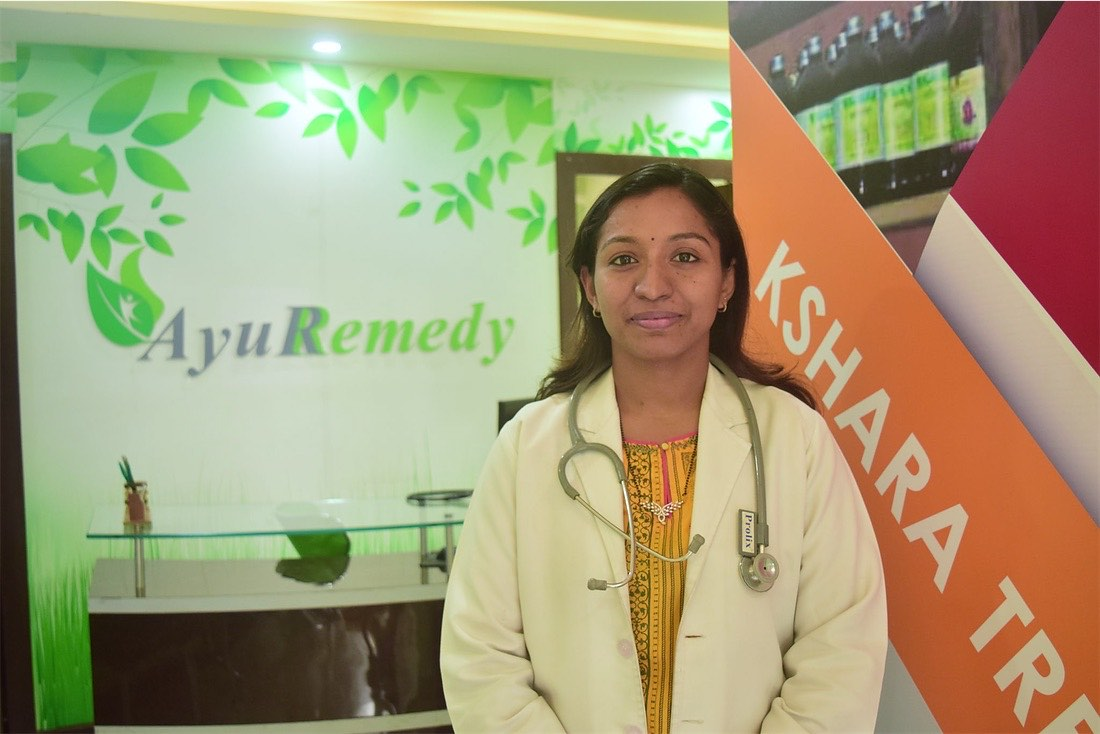
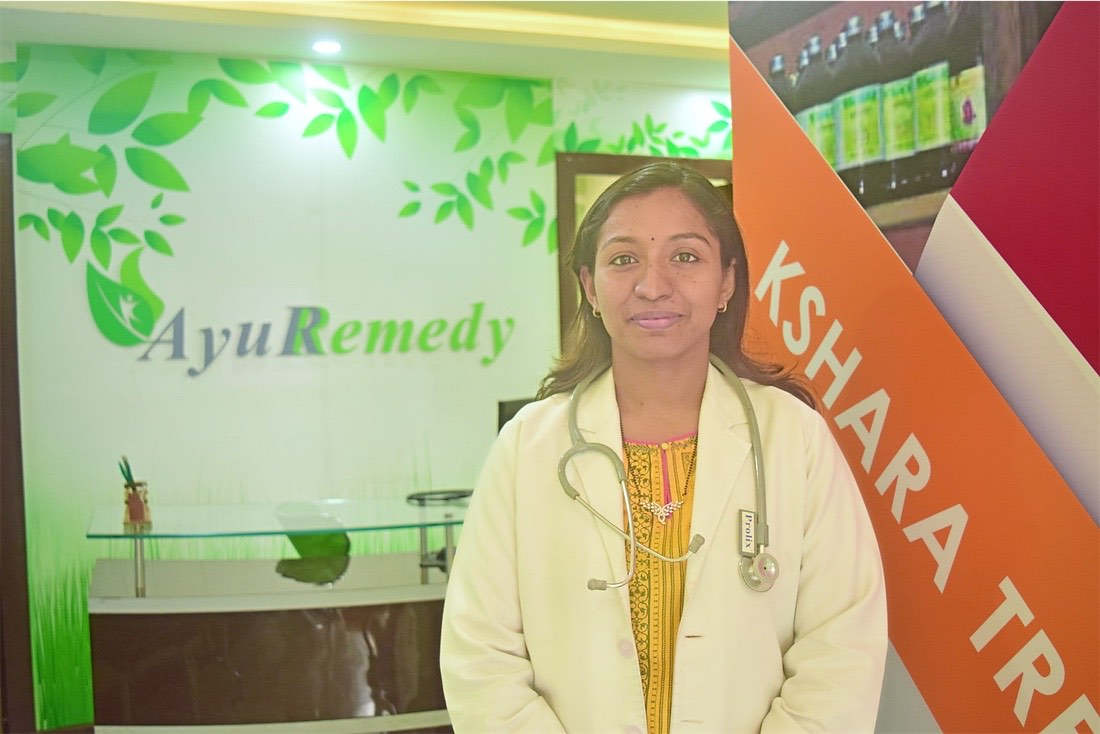
Brighten doctor photos: gamma lift on the person only, background untouched

diff --git a/src/pages/contact-us.html b/src/pages/contact-us.html
@@ -42,8 +42,8 @@ nav: contact
       </div>
       <div class="stack">
         <p class="eyebrow">Our doctors</p>
-        <div class="copy-row"><img src="@/assets/img/dr-rasmi-avatar.jpg" alt="" width="56" height="56" style="width:56px;height:56px;border-radius:50%;object-fit:cover"><span><a href="@/our-doctors/#rasmi">Dr Rasmi Johnson</a><br><span class="small muted">BAMS, MS (Shalya Tantra)</span></span></div>
-        <div class="copy-row"><img src="@/assets/img/dr-harshitha-avatar.jpg" alt="" width="56" height="56" style="width:56px;height:56px;border-radius:50%;object-fit:cover"><span><a href="@/our-doctors/#harshitha">Dr Harshitha Rai</a><br><span class="small muted">BAMS, MD, PhD (Ayu)</span></span></div>
+        <div class="copy-row"><img src="@/assets/img/dr-rasmi-avatar.jpg?v=3" alt="" width="56" height="56" style="width:56px;height:56px;border-radius:50%;object-fit:cover"><span><a href="@/our-doctors/#rasmi">Dr Rasmi Johnson</a><br><span class="small muted">BAMS, MS (Shalya Tantra)</span></span></div>
+        <div class="copy-row"><img src="@/assets/img/dr-harshitha-avatar.jpg?v=3" alt="" width="56" height="56" style="width:56px;height:56px;border-radius:50%;object-fit:cover"><span><a href="@/our-doctors/#harshitha">Dr Harshitha Rai</a><br><span class="small muted">BAMS, MD, PhD (Ayu)</span></span></div>
       </div>
       <a class="btn btn-primary" href="@/book-appointment/">Book Appointment</a>
     </div>

diff --git a/src/pages/our-doctors.html b/src/pages/our-doctors.html
@@ -14,7 +14,7 @@ nav: doctors
 <section class="section">
   <div class="wrap stack-lg">
     <article class="split" id="rasmi">
-      <img src="@/assets/img/dr-rasmi-profile.jpg" alt="Dr Rasmi Johnson, BAMS, MS (Shalya Tantra), senior physician at AyurRemedy" width="1100" height="734">
+      <img src="@/assets/img/dr-rasmi-profile.jpg?v=3" alt="Dr Rasmi Johnson, BAMS, MS (Shalya Tantra), senior physician at AyurRemedy" width="1100" height="734">
       <div class="stack">
         <p class="eyebrow">BAMS · MS (Shalya Tantra)</p>
         <h2>Dr Rasmi Johnson</h2>
@@ -50,7 +50,7 @@ nav: doctors
     </div>
 
     <article class="split flip" id="harshitha">
-      <img src="@/assets/img/dr-harshitha-profile.jpg" alt="Dr Harshitha Rai, BAMS, MD, PhD (Ayu), senior physician at AyurRemedy" width="761" height="517">
+      <img src="@/assets/img/dr-harshitha-profile.jpg?v=3" alt="Dr Harshitha Rai, BAMS, MD, PhD (Ayu), senior physician at AyurRemedy" width="761" height="517">
       <div class="stack">
         <p class="eyebrow">BAMS · MD · PhD (Ayu)</p>
         <h2>Dr Harshitha Rai</h2>

diff --git a/src/pages/index.html b/src/pages/index.html
@@ -175,7 +175,7 @@ nav: home
     </div>
     <div class="doctors">
       <article class="doctor">
-        <img src="@/assets/img/dr-rasmi-home.jpg" alt="Dr Rasmi Johnson, senior physician at AyurRemedy" width="1100" height="734" loading="lazy">
+        <img src="@/assets/img/dr-rasmi-home.jpg?v=3" alt="Dr Rasmi Johnson, senior physician at AyurRemedy" width="1100" height="734" loading="lazy">
         <div class="doctor-body">
           <p class="quals">BAMS · MS (Shalya Tantra)</p>
           <h3>Dr Rasmi Johnson</h3>
@@ -184,7 +184,7 @@ nav: home
         </div>
       </article>
       <article class="doctor">
-        <img src="@/assets/img/dr-harshitha-home.jpg" alt="Dr Harshitha Rai, senior physician at AyurRemedy" width="1100" height="734" loading="lazy">
+        <img src="@/assets/img/dr-harshitha-home.jpg?v=3" alt="Dr Harshitha Rai, senior physician at AyurRemedy" width="1100" height="734" loading="lazy">
         <div class="doctor-body">
           <p class="quals">BAMS · MD · PhD (Ayu)</p>
           <h3>Dr Harshitha Rai</h3>
